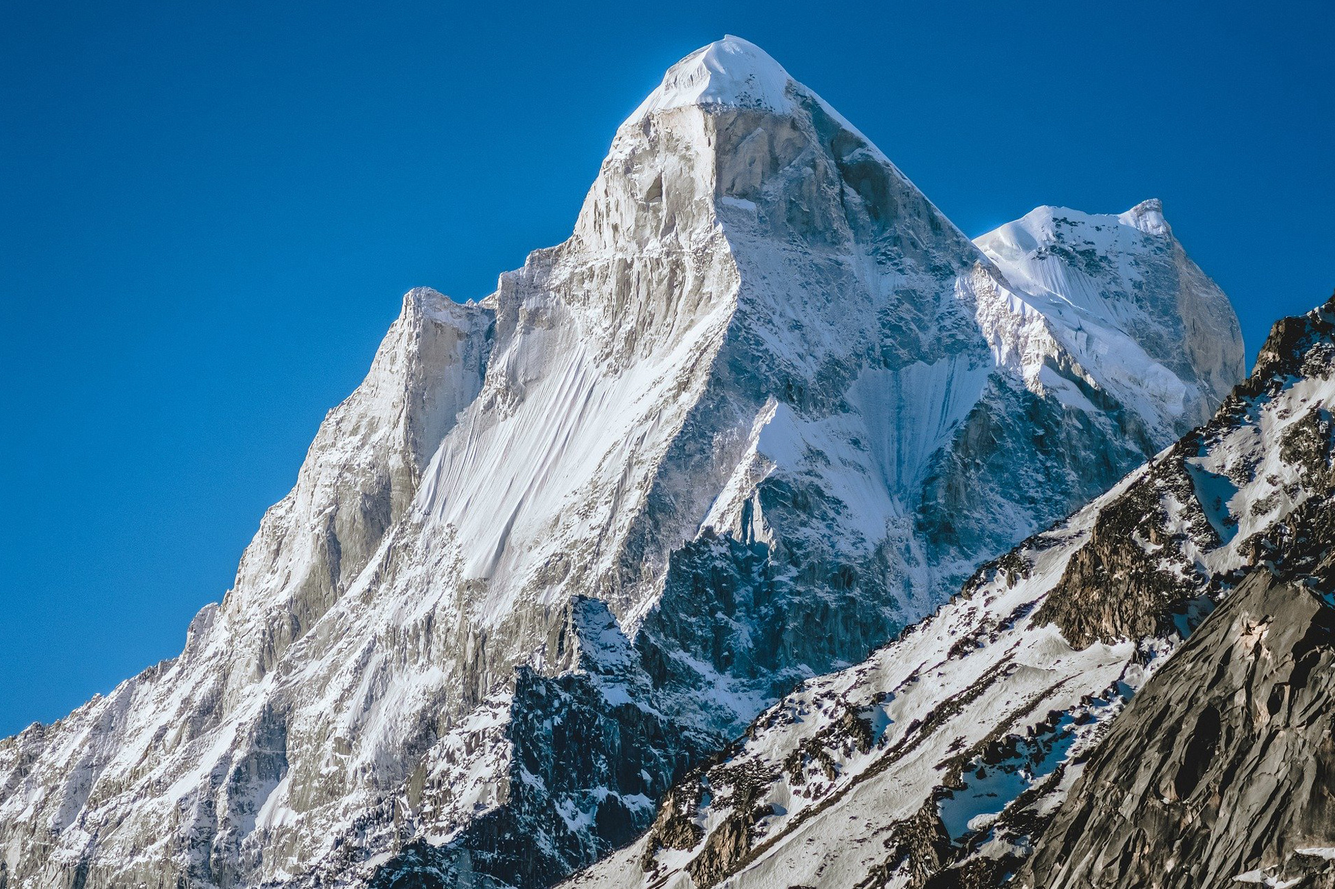
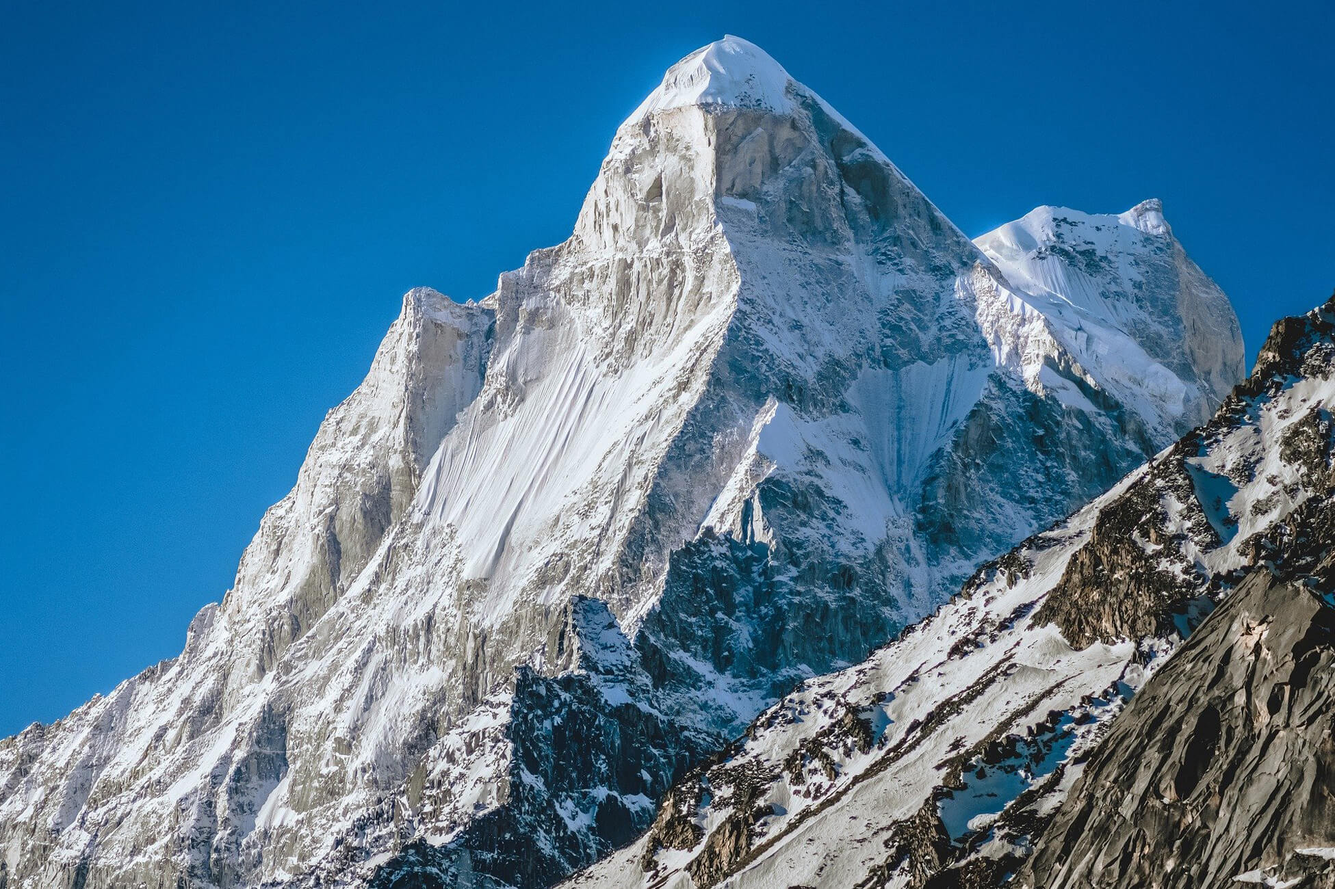
improve performance on landing page

diff --git a/frontend/src/views/Landing/components/Header.jsx b/frontend/src/views/Landing/components/Header.jsx
@@ -18,9 +18,12 @@ import {
 } from '@material-ui/core';
 
 import bannerInicial from '../../../assets/images/Tweeze_banner.png';
+import bannerInicialPequeno from '../../../assets/images/Tweeze_banner_small.png';
 
 import LogoBranca from '../../../assets/images/logo/logo_tweeze_branco.png';
 import LogoSimbolo from '../../../assets/images/logo/logo_twz_branco.png';
+
+const innerWidth = window.innerWidth;
 
 const useStyles = makeStyles((theme) => ({
   menuBar: {
@@ -164,7 +167,11 @@ const Header = () => {
         <div className="bg-composed-wrapper--bg bg-sunrise-blue opacity-6" />
         <div
           className="bg-composed-wrapper--image opacity-9"
-          style={{ backgroundImage: 'url(' + bannerInicial + ')' }}
+          style={{
+            backgroundImage: `url(${
+              innerWidth > 768 ? bannerInicial : bannerInicialPequeno
+            })`
+          }}
         />
         <div id="home" className="bg-composed-wrapper--content">
           <Container className="z-over shadow-container-content-5 text-white text-center pt-5">
